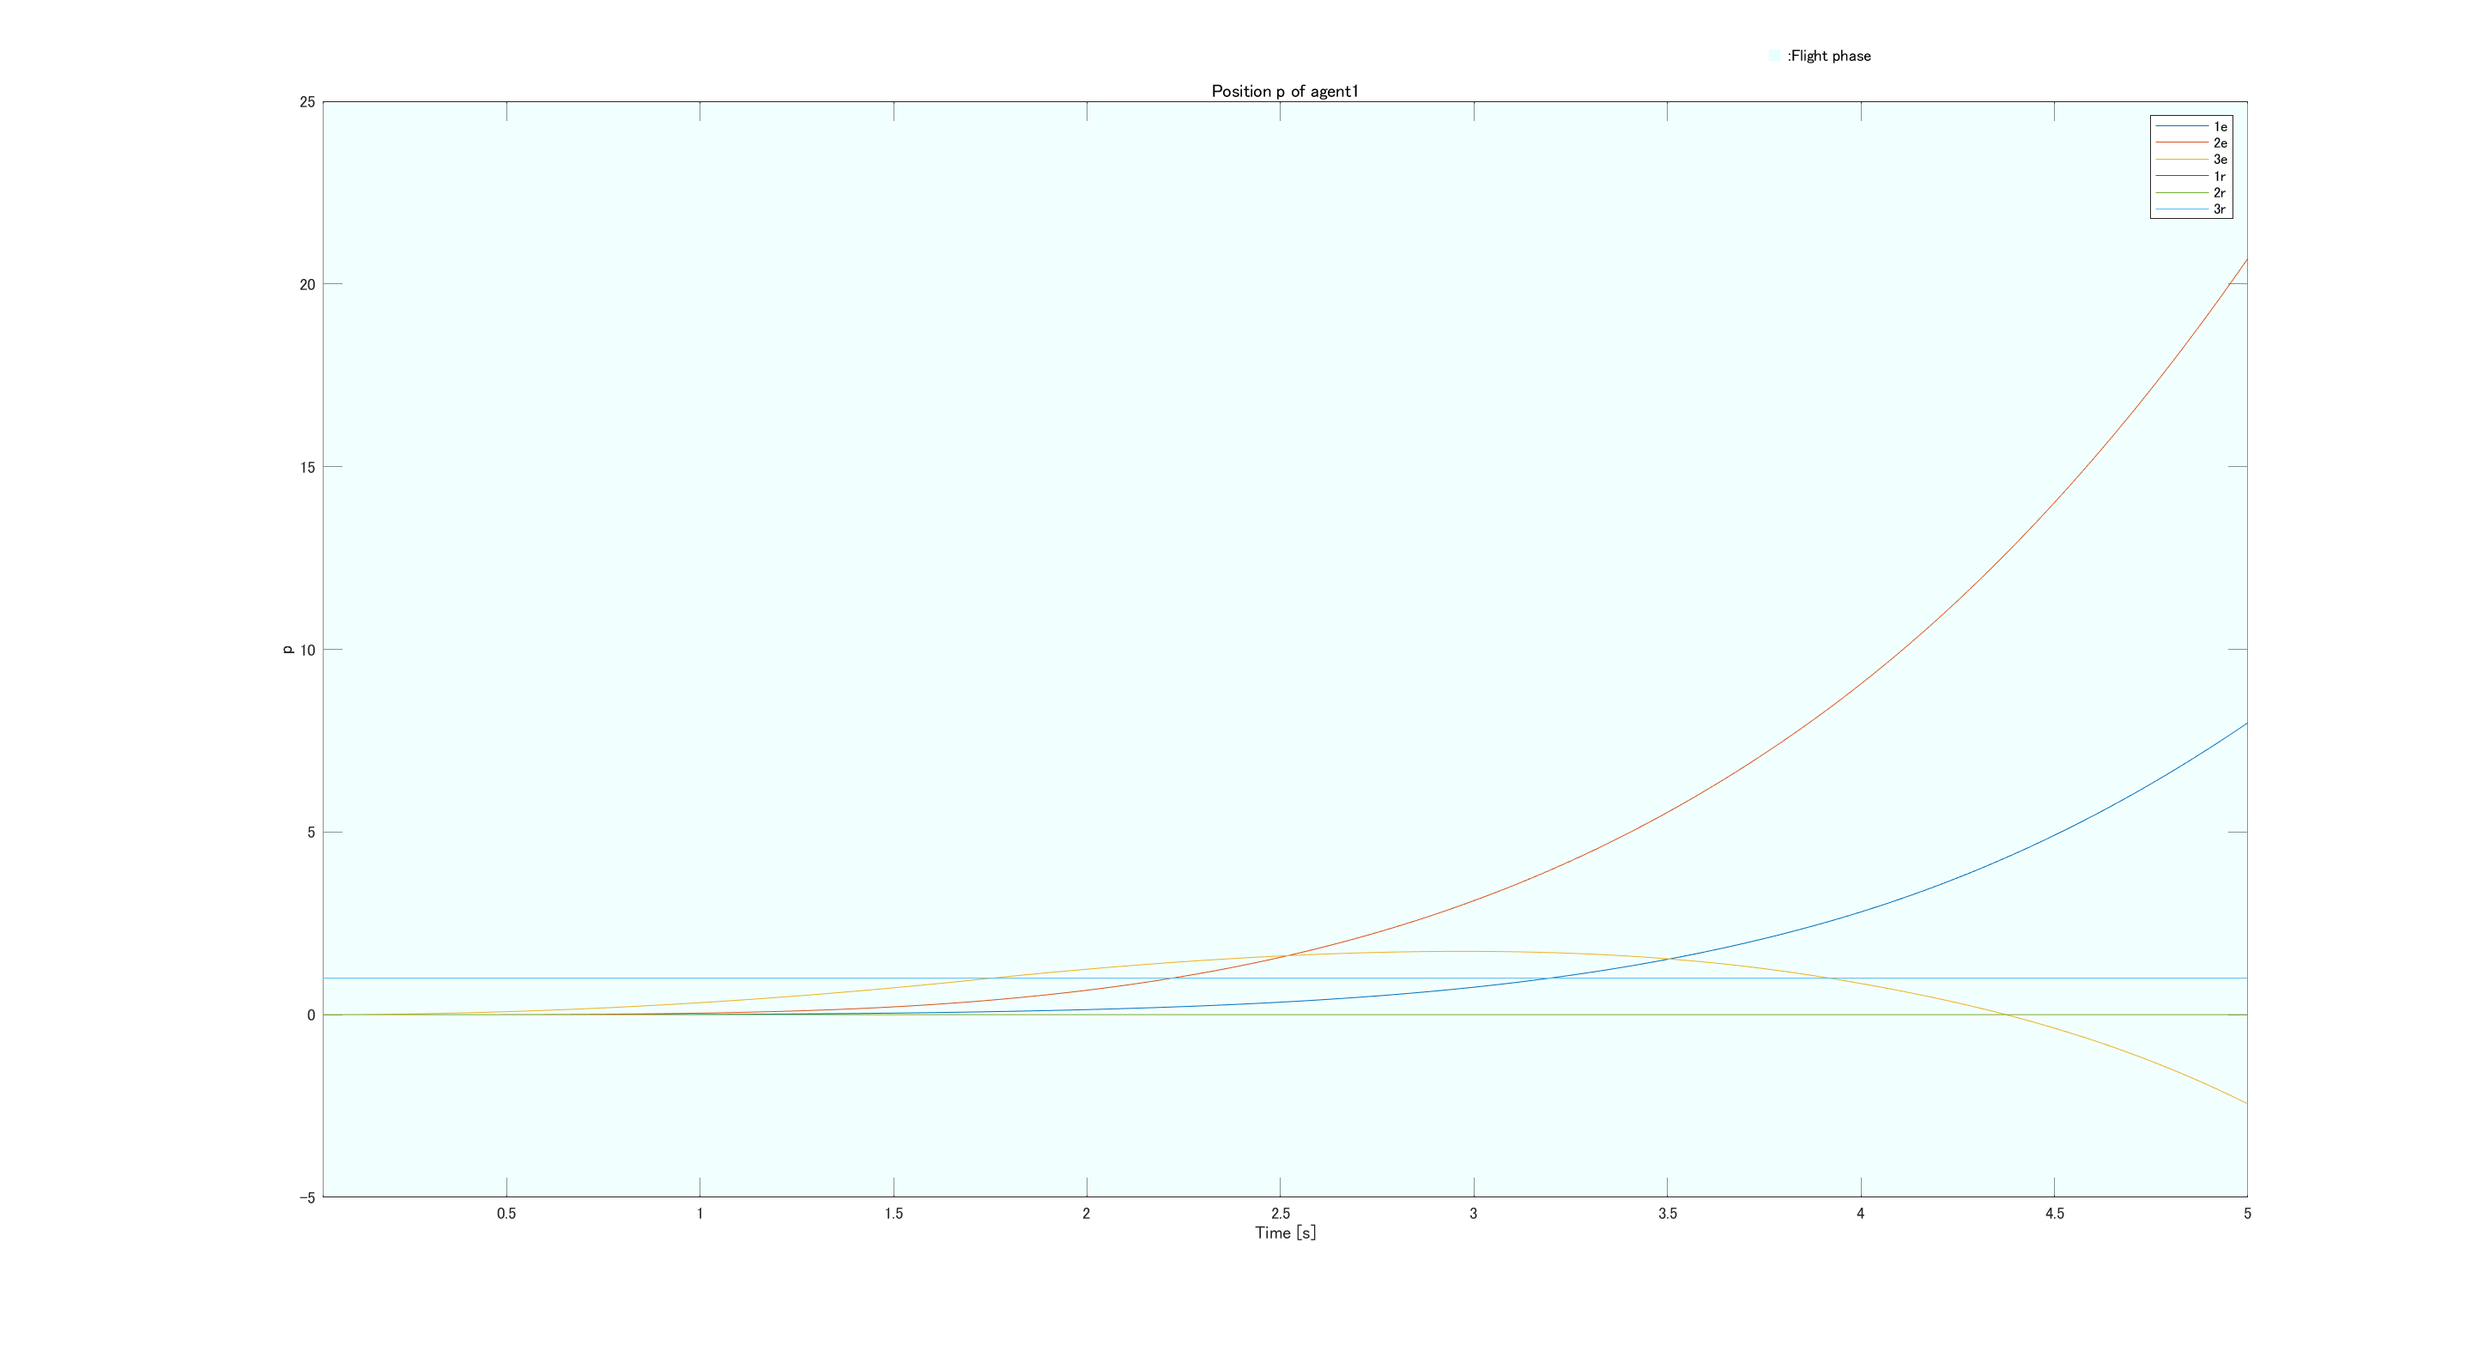
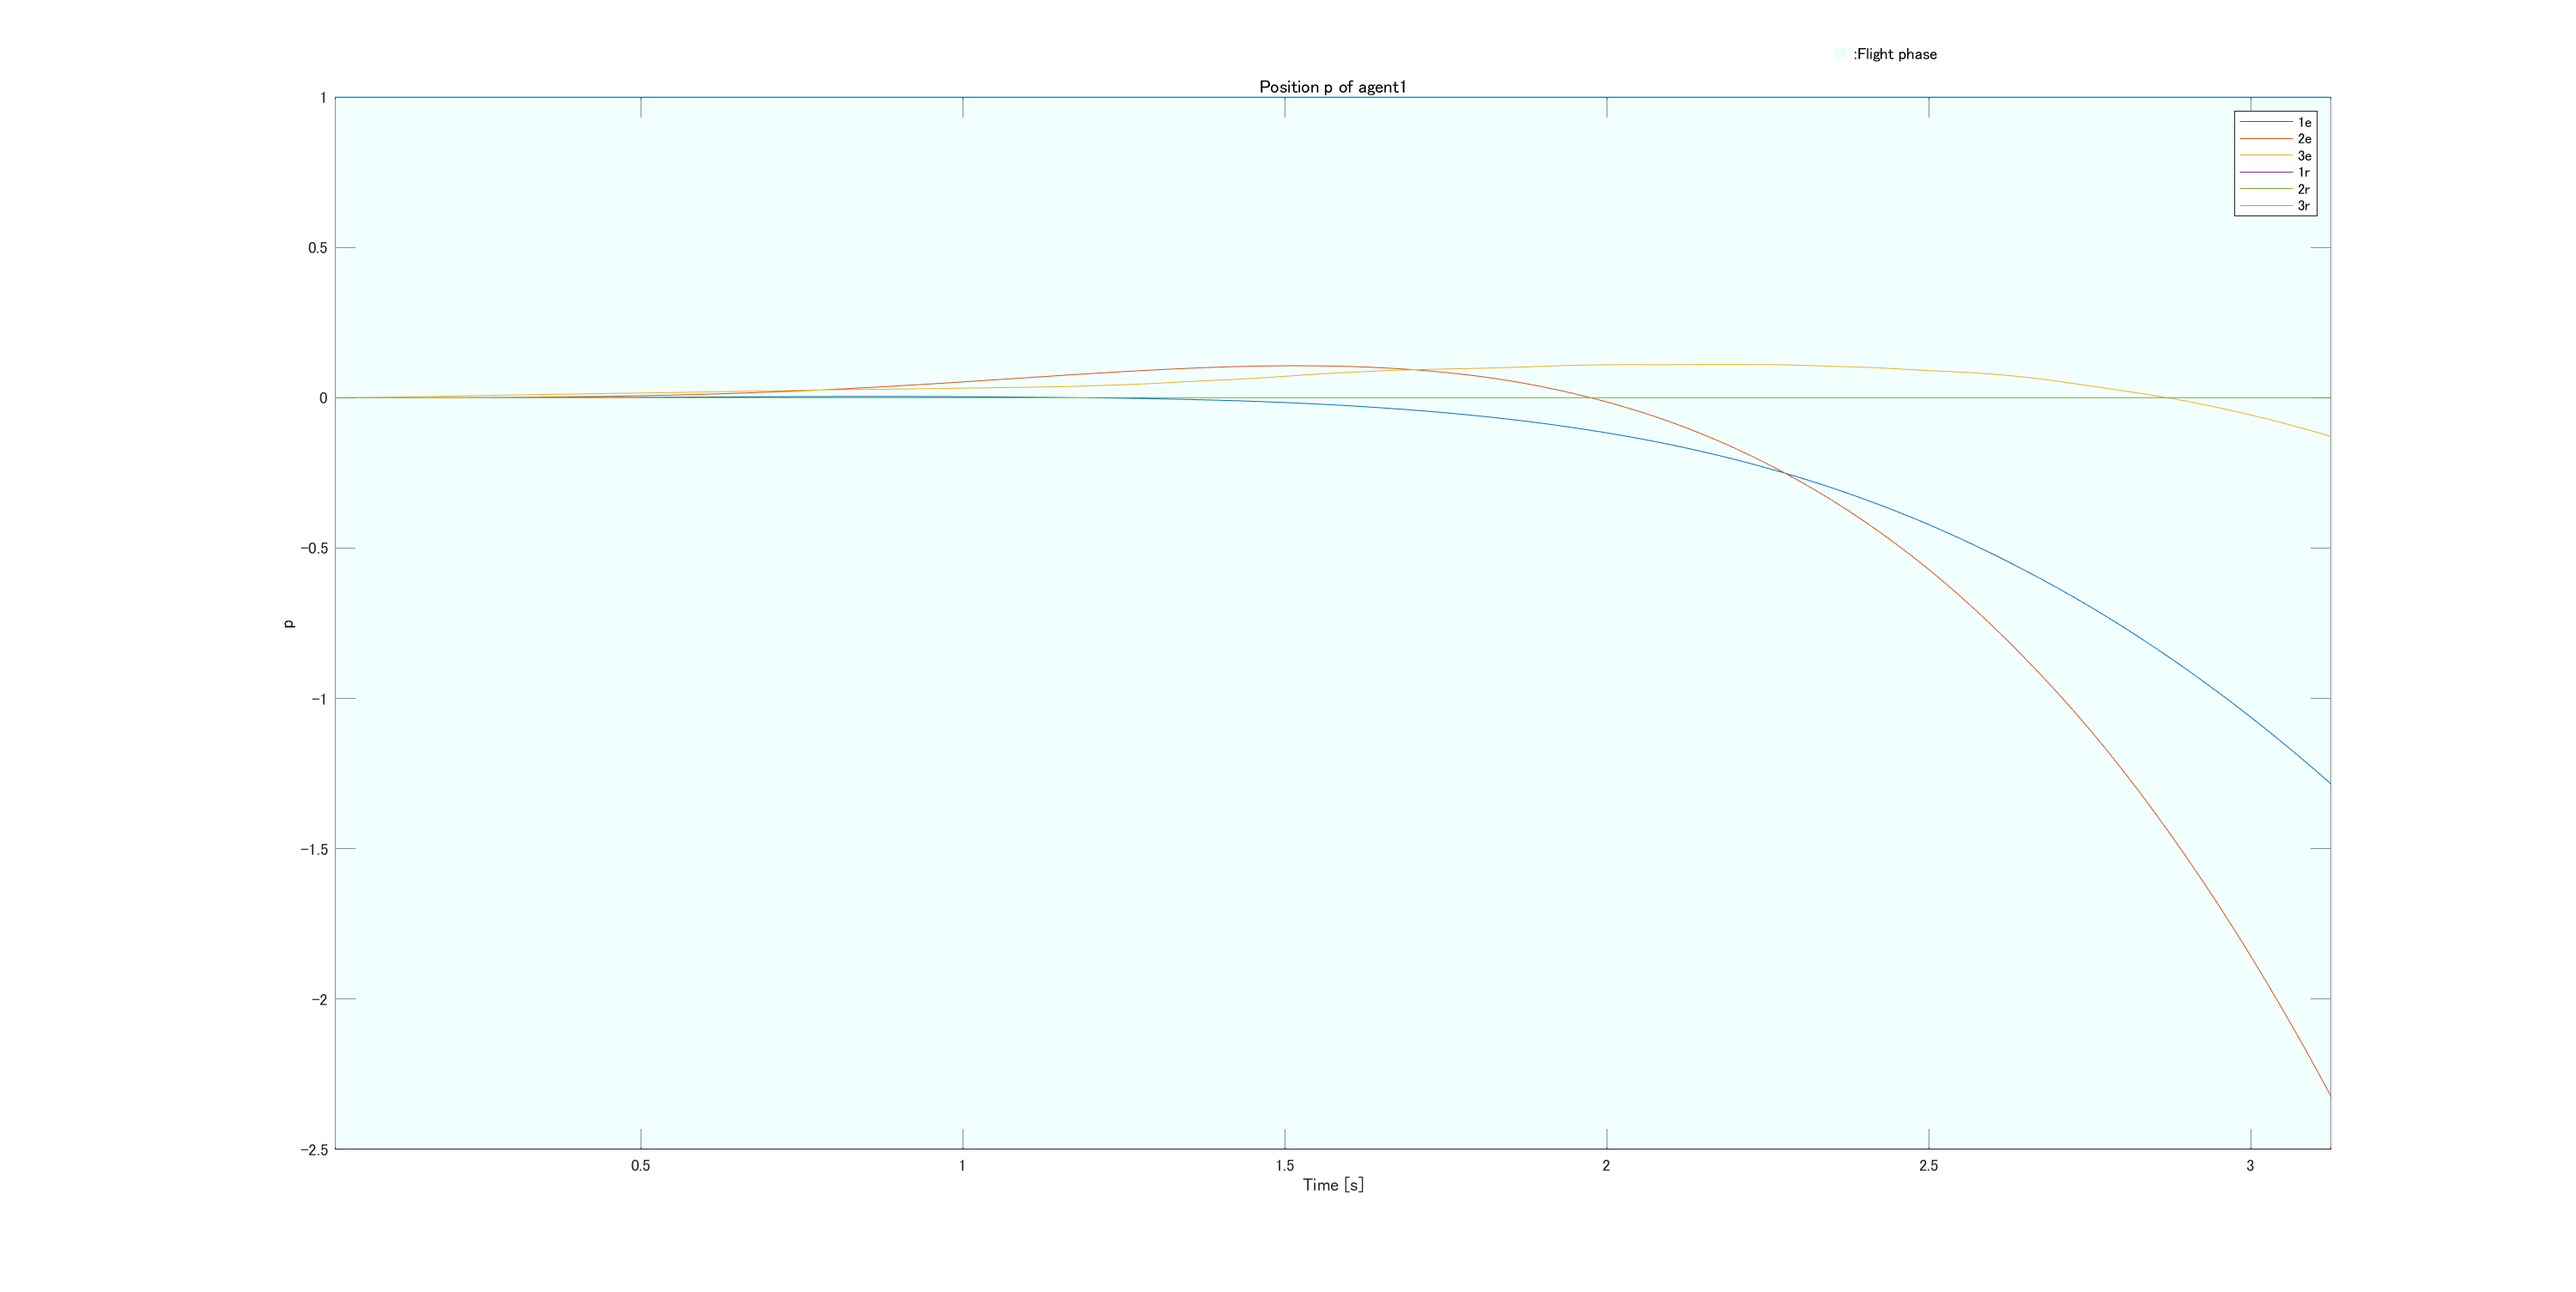
compare no horizon result
乱数のとり方による結果の違いを確かめた
結果を図として保存したため

diff --git a/main_no_horizon_re.m b/main_no_horizon_re.m
@@ -93,11 +93,12 @@ end
             ts = 0;
 %             p_monte = agent.model.state.p
             % 入力のサンプルから評価
-            ref_input = [0.269 * 9.81 / 4 0.269 * 9.81 / 4 0.269 * 9.81 / 4 0.269 * 9.81 / 4]'; % ホバリングの目標入力
-            Q_monte_x = 1; Q_monte_y = 1; Q_monte_z = 1000000;
-            Q_monte = diag([Q_monte_x, Q_monte_y, Q_monte_z]);
-            VQ_monte_x = 1000; VQ_monte_y = 1000; VQ_monte_z = 1000;
-            VQ_monte = diag([VQ_monte_x, VQ_monte_y, VQ_monte_z]);
+%             ref_input = [0.269 * 9.81 / 4 0.269 * 9.81 / 4 0.269 * 9.81 / 4 0.269 * 9.81 / 4]'; % ホバリングの目標入力
+%             Q_monte_x = 10000; Q_monte_y = 10000; Q_monte_z = 10000;
+%             VQ_monte_x = 10; VQ_monte_y = 10; VQ_monte_z = 1;
+            
+            Q_monte = diag([1, 1, 1000000]);
+            VQ_monte = diag([1, 1, 1]);
             R_monte = 1;    
             % 評価関数
 %             fun = @(p_monte, u_monte) (p_monte - agent.reference.result.state.p)'*Q_monte*(p_monte - agent.reference.result.state.p)+(u_monte - ref_input)'*R_monte*(u_monte - ref_input); 
@@ -107,17 +108,17 @@ end
             Fsub = @(sub_monte1) sub_monte1 > 0;
             % ホバリングから±sigma%の範囲
             rng('shuffle')
-            sigma = 0.3;
+            sigma = 0.15;
             delta1 = 0.0; delta2 = 0.0; delta3 = 0.0; delta4 = 0.0;
             a = 0.269 * 9.81 / 4 - 0.269 * 9.81 / 4 * sigma;           b = 0.269 * 9.81 / 4 + 0.269 * 9.81 / 4 * sigma;
-            sample = 10;   % サンプル数
-            u = (b-a).*rand(sample,4) + a        
+            sample = 500;   % サンプル数
+%             u = (b-a).*rand(sample,4) + a;        
 %             a_xy = 0.269 * 9.81 / 4 - 0.269 * 9.81 / 4 * sigma_xy;     b_xy = 0.269 * 9.81 / 4 + 0.269 * 9.81 / 4 * sigma_xy;
             % 入力 u
 %             u = [0 0 0 0];
-%             u1(: ,1) = (b-a).*rand(sample,1) + a + delta1;               u2(: ,1) = (b-a).*rand(sample,1) + a + delta2;
-%             u3(: ,1) = (b-a).*rand(sample,1) + a + delta3;               u4(: ,1) = (b-a).*rand(sample,1) + a + delta4;
-%             u = [u1 u2 u3 u4];
+            u1(: ,1) = (b-a).*rand(sample,1) + a + delta1;               u2(: ,1) = (b-a).*rand(sample,1) + a + delta2;
+            u3(: ,1) = (b-a).*rand(sample,1) + a + delta3;               u4(: ,1) = (b-a).*rand(sample,1) + a + delta4;
+            u = [u1 u2 u3 u4];
             
             
             % 配列定義
@@ -143,7 +144,7 @@ end
             
 %                 Adata(monte, 1:3) = arrayfun(fun, P_monte(1:3)', u(monte, :)')';  % 評価値(x, y, z)算出
             [~,min_index] = min(Adata(:, 1));   % 評価値の合計の最小値インデックス算出
-            u(min_index, 4) = u(min_index, 4) + delta4;
+            u(min_index, 4) = u(min_index, 4);
             agent.input = u(min_index, :)';     % 最適な入力の取得
             if fZpos(min_index, 1) == 1
                 printf("Stop!!");               % エラーを吐かせて終了させる
@@ -227,7 +228,7 @@ logger.plot({1,"p", "er"});
 % logger.plot({1,"v", "e"});
 % logger.plot({1,"input", ""});
 % agent(1).reference.timeVarying.show(logger)
-saveas(gcf,'Data/20220616_no_horizon.png')
+saveas(gcf,'Data/20220622_no_horizon_re_1.png')
 
 %% animation
 %VORONOI_BARYCENTER.draw_movie(logger, N, Env,1:N)

diff --git a/main_horizon.m b/main_horizon.m
@@ -89,14 +89,13 @@ end
             % MPC controller
             % ts探し
             horizon = 2;
-            rng(0,'twister');
             ts = 0;
 %             p_monte = agent.model.state.p
             % 入力のサンプルから評価
             ref_input = [0.269 * 9.81 / 4 0.269 * 9.81 / 4 0.269 * 9.81 / 4 0.269 * 9.81 / 4]'; % ホバリングの目標入力
-            Q_monte_x = 1; Q_monte_y = 1; Q_monte_z = 10000000;
+            Q_monte_x = 1; Q_monte_y = 1; Q_monte_z = 1;
             Q_monte = [Q_monte_x 0 0; 0 Q_monte_y 0; 0 0 Q_monte_z];
-            R_monte = 1;    VQ_monte = 100;    WQ_monte = 1;
+            R_monte = 1;    VQ_monte = 1;    WQ_monte = 1;
             % 評価関数
 %             fun = @(p_monte, u_monte) (p_monte - agent.reference.result.state.p)'*Q_monte*(p_monte - agent.reference.result.state.p)+(u_monte - ref_input)'*R_monte*(u_monte - ref_input); 
 %             fun = @(p_monte) (p_monte - agent.reference.result.state.p)'*Q_monte*(p_monte - agent.reference.result.state.p); 
@@ -104,16 +103,17 @@ end
 %             fun = @(p_monte, v_monte, w_monte) (p_monte - agent.reference.result.state.p)'*Q_monte*(p_monte - agent.reference.result.state.p)+v_monte'*VQ_monte*v_monte+w_monte'*WQ_monte*w_monte; 
             % 制約条件
             Fsub = @(sub_monte1) sub_monte1 > 0;
-            sample = 20;   % サンプル数
+            sample = 10;   % サンプル数
             % ホバリングから±sigma%の範囲
-            sigma = 0.1;
+            sigma = 0.3;
             delta = 0.000;   % プロペラの補正
+            rng('shuffle')
 %             sigma_xy = 0.0005;
             a = 0.269 * 9.81 / 4 - 0.269 * 9.81 / 4 * sigma;           b = 0.269 * 9.81 / 4 + 0.269 * 9.81 / 4 * sigma;
             % 入力 u 入力の初期化ちゃんと
             u1(: ,1) = (b-a).*rand(sample,1) + a;               u2(: ,1) = (b-a).*rand(sample,1) + a + delta;
             u3(: ,1) = (b-a).*rand(sample,1) + a;               u4(: ,1) = (b-a).*rand(sample,1) + a + delta;
-            u = [u1 u2 u3 u4];  % 予測ステップでは同様の入力を用いる
+            u = [u1 u2 u3 u4]  % 予測ステップでは同様の入力を用いる
             % 配列定義
             Adata = cell(sample, sample);  % 2horizon = 2乗のサイズの配列
             P_monte = cell(sample, horizon);

diff --git a/main_no_horizon.m b/main_no_horizon.m
@@ -103,7 +103,7 @@ end
 %             p_monte = agent.model.state.p
             % 入力のサンプルから評価
             ref_input = [0.269 * 9.81 / 4 0.269 * 9.81 / 4 0.269 * 9.81 / 4 0.269 * 9.81 / 4]'; % ホバリングの目標入力
-            Q_monte_x = 1; Q_monte_y = 1; Q_monte_z = 1;
+            Q_monte_x = 1; Q_monte_y = 1; Q_monte_z = 1000000;
             Q_monte = [Q_monte_x 0 0; 0 Q_monte_y 0; 0 0 Q_monte_z];
             R_monte = 1;    VQ_monte = 1;
             % 評価関数
@@ -112,9 +112,9 @@ end
             fun = @(p_monte, v_monte) (p_monte - agent.reference.result.state.p)'*Q_monte*(p_monte - agent.reference.result.state.p)+v_monte'*VQ_monte*v_monte; 
             % 制約条件
             Fsub = @(sub_monte1) sub_monte1 > 0;
-            sample = 10;   % サンプル数
+            sample = 500;   % サンプル数
             % ホバリングから±sigma%の範囲
-            sigma = 0.5;
+            sigma = 0.15;
             delta1 = 0.0; delta2 = 0.0; delta3 = 0.0; delta4 = 0.0;
             a = 0.269 * 9.81 / 4 - 0.269 * 9.81 / 4 * sigma;           b = 0.269 * 9.81 / 4 + 0.269 * 9.81 / 4 * sigma;
 %             a_xy = 0.269 * 9.81 / 4 - 0.269 * 9.81 / 4 * sigma_xy;     b_xy = 0.269 * 9.81 / 4 + 0.269 * 9.81 / 4 * sigma_xy;
@@ -227,7 +227,7 @@ clc
 logger.plot({1,"p", "er"});
 % logger.plot({1,"v", "e"});
 % agent(1).reference.timeVarying.show(logger)
-saveas(gcf,'Data/20220616_no_horizon.png')
+saveas(gcf,'Data/20220622_no_horizon_1.png')
 
 %% animation
 %VORONOI_BARYCENTER.draw_movie(logger, N, Env,1:N)
